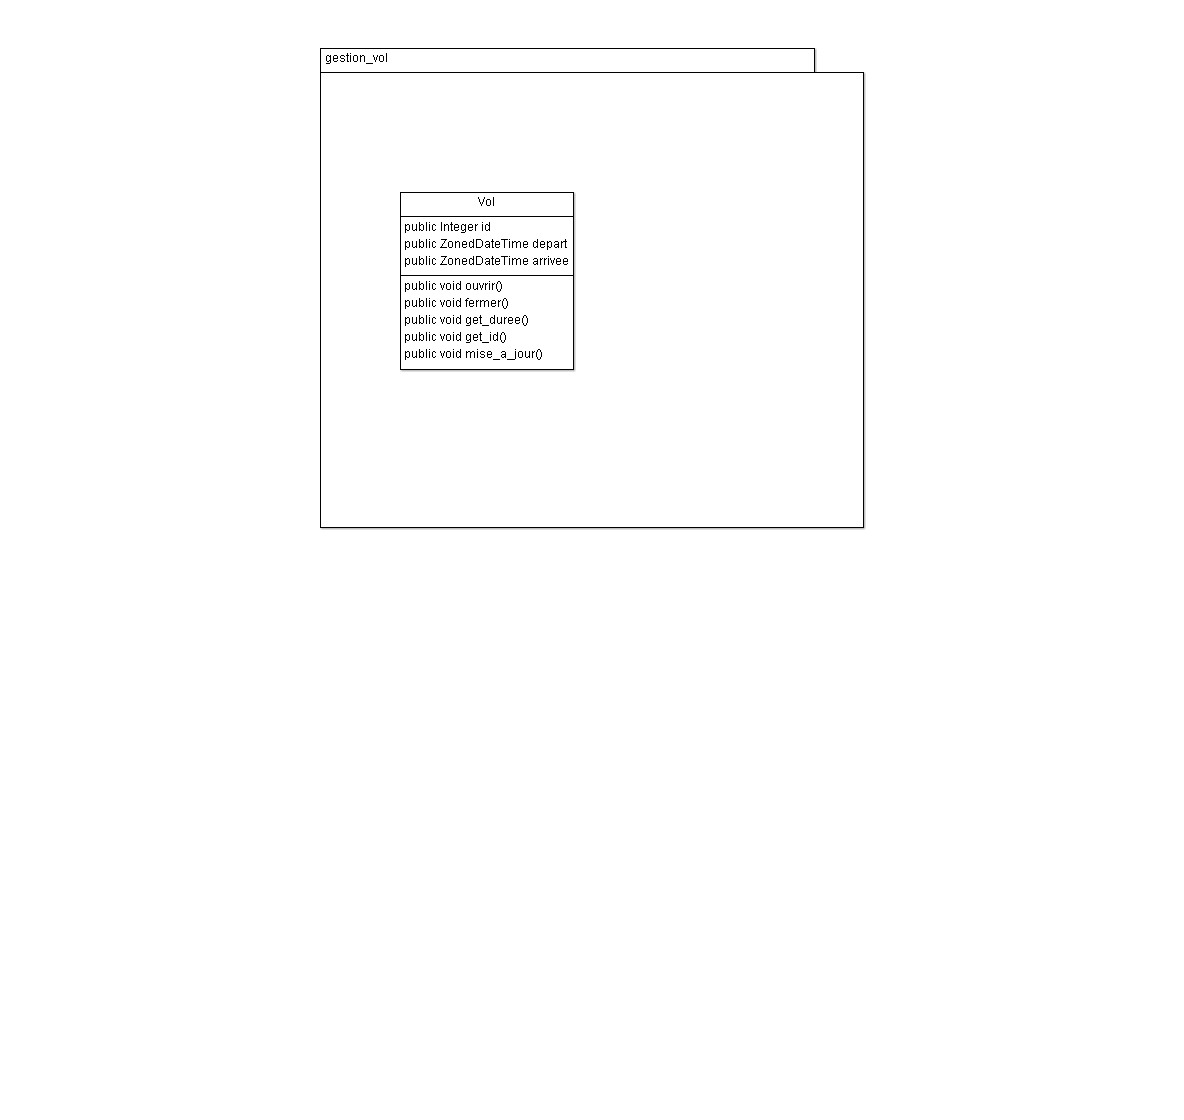
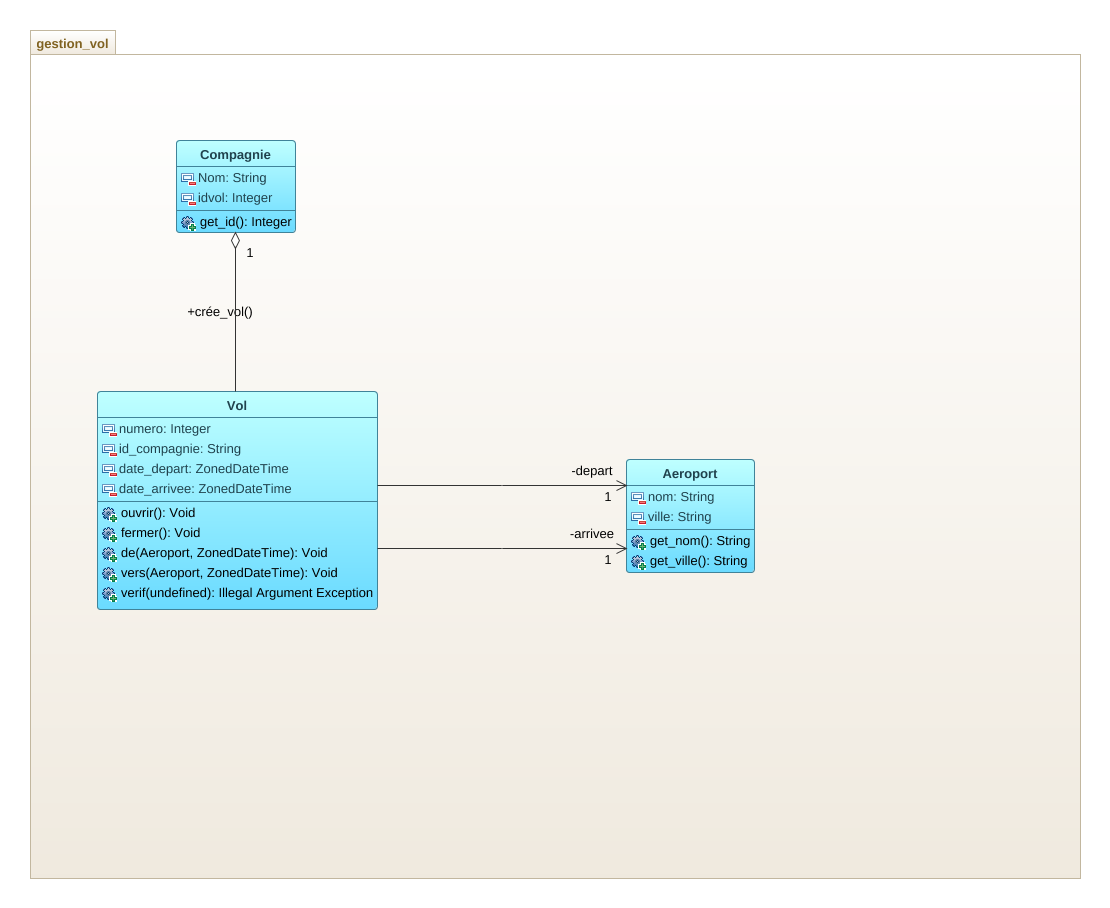
Compagnie-Vol + Vol-Aéroport
Agrégation (Compagnie-Vol) + Association (Vol - Aéroport)

diff --git a/src/Start.java b/src/Start.java
@@ -2,40 +2,38 @@ import java.time.LocalDateTime;
 import java.time.Month;
 import java.time.ZoneId;
 import java.time.ZonedDateTime;
-import java.time.format.DateTimeFormatter;
 
+import gestion_vol.Aeroport;
+import gestion_vol.Compagnie;
+import gestion_vol.Ville;
 import gestion_vol.Vol;
 
 public class Start{
 	public static void main(String[] args){
-		String compagnie = "Air France ";
-		ZoneId paris = ZoneId.of("Europe/Paris");
-		DateTimeFormatter format = DateTimeFormatter.ofPattern("HH:mm, dd MMM yyyy");
+		Compagnie airFrance = new Compagnie("Air France");
 		//----------------------------------------------------------------------------------
-		LocalDateTime dep = LocalDateTime.of(2020, Month.OCTOBER, 20, 23, 00);
-		ZonedDateTime depart = dep.atZone(paris);
-		LocalDateTime arr = LocalDateTime.of(2020, Month.OCTOBER, 21, 00, 30);
-		ZonedDateTime arrive = arr.atZone(paris);
-		Vol a = new Vol(depart, arrive);
+		ZoneId fuseauParis = ZoneId.of("Europe/Paris");
+		//----------------------------------------------------------------------------------
+		Ville paris = new Ville("Paris");
+		Ville barcelone = new Ville("Barcelone");
+		//----------------------------------------------------------------------------------
+		Aeroport cdg = new Aeroport("Charles de Gaules", paris);
+		Aeroport bep = new Aeroport("Barcelone-El Prat", barcelone);
+		//----------------------------------------------------------------------------------
+		LocalDateTime dep = LocalDateTime.of(2020, Month.OCTOBER, 21, 20, 00);
+		LocalDateTime arr = LocalDateTime.of(2020, Month.OCTOBER, 21, 23, 00);
+		LocalDateTime dep2 = LocalDateTime.of(2020, Month.OCTOBER, 21, 23, 00);
+		LocalDateTime arr2 = LocalDateTime.of(2020, Month.OCTOBER, 22, 02, 00);
+		//----------------------------------------------------------------------------------
+		ZonedDateTime heure_depart = dep.atZone(fuseauParis);
+		ZonedDateTime heure_arrive = arr.atZone(fuseauParis);
+		ZonedDateTime heure_depart2 = dep2.atZone(fuseauParis);
+		ZonedDateTime heure_arrive2 = arr2.atZone(fuseauParis);
 		//-----------------------------------------------------------------------------------
-		LocalDateTime dep2 = LocalDateTime.of(2020, Month.OCTOBER, 21, 16, 00);
-		ZonedDateTime depart2 = dep2.atZone(paris);
-		LocalDateTime arr2 = LocalDateTime.of(2020, Month.OCTOBER, 21, 21, 30);
-		ZonedDateTime arrive2 = arr2.atZone(paris);
-		Vol b = new Vol(depart2, arrive2);
-		b.mise_a_jour();
+		airFrance.creer_vol( cdg, heure_depart, bep, heure_arrive);
+		System.out.println("-----------------------------------------------------------------");
+		airFrance.creer_vol(bep, heure_depart2, cdg, heure_arrive2);
 		//----------------------------------------------------------------------------------
-		System.out.println("Flight id : " + compagnie + a.get_ID());
-		System.out.println("Time zone : " + paris);
-		System.out.println("Departure : " + format.format(dep) + " " + depart.getZone());
-		System.out.println("Arrival : " + format.format(arr) + " " + arrive.getZone());
-		System.out.println("Duration : " + a.get_Duree());
-		System.out.println("---------------------------------------------------------------");
-		System.out.println("Flight id : " + compagnie + b.get_ID());
-		System.out.println("Time zone : " + paris);
-		System.out.println("Departure : " + format.format(dep2) + " " + depart2.getZone());
-		System.out.println("Arrival : " + format.format(arr2) + " " + arrive2.getZone());
-		System.out.println("Duration : " + b.get_Duree());
 	}
 
 	

diff --git a/src/gestion_vol/Vol.java b/src/gestion_vol/Vol.java
@@ -2,27 +2,22 @@ package gestion_vol;
 
 import java.time.Duration;
 import java.time.ZonedDateTime;
+import java.time.format.DateTimeFormatter;
 import java.util.ArrayList;
 
 
 public class Vol {
-	private int id=1;
+	private int numero;
+	private String id_compagnie;
 	private ZonedDateTime date_depart;
 	private ZonedDateTime date_arrivee;
 	private Aeroport depart;
 	private Aeroport arrivee;
 	private ArrayList <Escale> escales = new ArrayList<Escale>();
 
-	public Vol(ZonedDateTime dep, ZonedDateTime arr){
-		this.date_depart=dep;
-		this.date_arrivee=arr;
-		if (this.date_arrivee.isBefore(this.date_depart)){
-			throw new IllegalArgumentException("Arrival cannot be prior to departure");
-		}
-		if (this.date_depart.equals(this.date_arrivee)){
-			throw new IllegalArgumentException("Arrival cannot be at the same time as departure");
-		}
-		//this.mise_a_jour();
+	public Vol(String compagnie, int id){
+		this.numero=id;
+		this.id_compagnie=compagnie;
 	}
 
 	private void ouvrir(){
@@ -33,22 +28,49 @@ public class Vol {
 
 	}
 
+	public void de(Aeroport aeroport1, ZonedDateTime date1){
+		this.depart=aeroport1;
+		this.date_depart = date1;
+	} 
+
+	public void vers(Aeroport aeroport2, ZonedDateTime date2){
+		this.arrivee=aeroport2;
+		this.date_arrivee=date2;
+	}
 	public String get_Duree(){ 
 		String duree=Duration.between(this.date_depart, this.date_arrivee).toString();
 		duree=(duree == null) ? null : duree.replaceAll("PT", "");
-		duree=(duree == null) ? null : duree.replaceAll("H", ":");
 		duree = (duree == null) ? null : duree.replaceAll("M", "");
+		
 		return duree;
 	}
 
-	public int get_ID(){
-		return this.id;
-	}
 
 	public void mise_a_jour(){
-		this.id++;
+		this.numero++;
 	}
 
+	public void verif(){
+		if (this.date_arrivee.isBefore(this.date_depart)){
+			throw new IllegalArgumentException("Arrival cannot be prior to departure");
+		}
+		if (this.date_depart.equals(this.date_arrivee)){
+			throw new IllegalArgumentException("Arrival cannot be at the same time as departure");
+		}
+		if (this.depart.equals(this.arrivee)){
+			throw new IllegalArgumentException("The place of arrival cannot be the same as the place of departure");
+		}
+	}
+
+	public void print_all(){
+		DateTimeFormatter format = DateTimeFormatter.ofPattern("HH:mm, dd MMM yyyy");
+		System.out.println("Flight id : " + this.id_compagnie +" "+ this.numero);
+		//System.out.println("Time zone : " + paris);
+		System.out.println("Departure : " + format.format(date_depart) + " " + date_depart.getZone()+" a "+this.depart.get_nom()+"("+this.depart.get_ville()+")");
+		System.out.println("Arrival : " + format.format(date_arrivee) + " " + date_arrivee.getZone() + " a "
+				+ this.arrivee.get_nom() + "(" + this.arrivee.get_ville()+")");
+		System.out.println("Duration : " + this.get_Duree());
+	}
 
 	
 }

diff --git a/src/gestion_vol/Compagnie.java b/src/gestion_vol/Compagnie.java
@@ -1,18 +1,29 @@
 package gestion_vol;
 
+import java.time.ZonedDateTime;
 import java.util.ArrayList;
 import java.util.List;
 
 public class Compagnie{
 	public String nom;
+	public int idvol=1;
 	private List<Vol> vols = new ArrayList<Vol>();
 
 	public Compagnie(String nom){
 		this.nom=nom;
 	}
 
-	public void creer_vol(Vol nomVol){
-		this.vols.add(nomVol);
+	public void creer_vol(Aeroport aeroport1, ZonedDateTime date1, Aeroport aeroport2, ZonedDateTime date2){
+		Vol v = new Vol(this.nom,this.get_id());
+		v.de(aeroport1, date1);
+		v.vers(aeroport2, date2);
+		this.vols.add(v);
+		v.verif();
+		v.print_all();
+	}
+
+	public int get_id(){
+		return this.idvol++;
 	}
 
 	public List<Vol> get_vols(){

diff --git a/src/gestion_vol/Aeroport.java b/src/gestion_vol/Aeroport.java
@@ -2,9 +2,19 @@ package gestion_vol;
 
 public class Aeroport {
 	private String nom;
+	private Ville ville;
 
-	public Aeroport(String n){
-		this.nom = n;
+	public Aeroport(String nom, Ville ville){
+		this.nom = nom;
+		this.ville=ville;
+	}
+
+	public String get_nom(){
+		return this.nom;
+	}
+
+	public String get_ville(){
+		return this.ville.get_ville();
 	}
 
 }

diff --git a/src/gestion_vol/Ville.java b/src/gestion_vol/Ville.java
@@ -6,4 +6,8 @@ public class Ville {
 	public Ville(String n){
 		this.nom = n;
 	}
+
+	public String get_ville(){
+		return this.nom;
+	}
 }

diff --git a/README.md b/README.md
@@ -16,9 +16,9 @@ Se placer à la racine puis faire : `./gradlew build` puis `./gradlew run`
 
 - [x] Implémentation de la durée 
 
-- [x] ID de vol unique
+- [ ] ID de vol unique (en cours)
 
-- [ ] Relier la compagnie au vol (en cours)
+- [x] Relier la compagnie au vol 
 
 - [ ] Relier l'aéroport au vol
 
@@ -75,4 +75,12 @@ b.mise_a_jour();
 
 ### Agrégation compagnie - vol 
 
-Nous avons décider d'implémenter une `ArrayList`
+Nous avons décider d'implémenter une `ArrayList`.
+La compagnie aura donc une liste de vol à sa disposition 
+```java 
+public class Compagnie{
+	public String nom;
+	private List<Vol> vols = new ArrayList<Vol>();
+```
+
+La compagnie va ensuite créer le vol.
